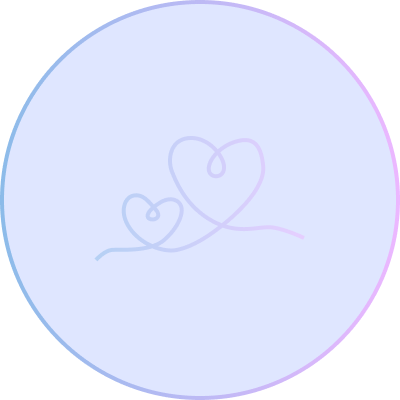
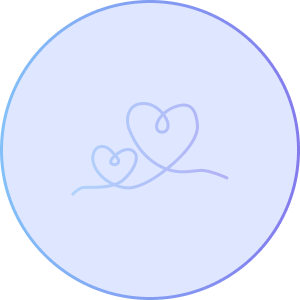
changing app colors

diff --git a/src/shared/assets/icons/Home.ts b/src/shared/assets/icons/Home.ts
@@ -1,25 +1,22 @@
 const HomeIcon = `
-<svg viewBox="0 0 24 24" fill="none" xmlns="http://www.w3.org/2000/svg">
-<path fill-rule="evenodd" clip-rule="evenodd" d="M5.00091 10.9673V15.6123C4.95843 17.4397 6.40451 18.9561 8.23191 19.0003H15.7699C17.5973 18.9561 19.0434 17.4397 19.0009 15.6123V10.9673C19.003 9.59674 18.3636 8.30422 17.2729 7.47427L14.2129 5.61927C12.8535 4.79358 11.1474 4.79358 9.78791 5.61927L6.72891 7.47427C5.63826 8.30422 4.99884 9.59674 5.00091 10.9673Z" fill="#DCDCDC" />
-<path d="M14.1547 15.1836C13.6498 15.8671 12.8504 16.2704 12.0007 16.2704C11.1509 16.2704 10.3516 15.8671 9.84668 15.1836" stroke="#F4F6FA" stroke-width="1.5" stroke-linecap="round"/>
+<svg width="14" height="14" viewBox="0 0 14 14" fill="none" xmlns="http://www.w3.org/2000/svg">
+<path fill-rule="evenodd" clip-rule="evenodd" d="M0.000912467 5.96727V10.6123C-0.0415678 12.4397 1.40451 13.9561 3.23191 14.0003H10.7699C12.5973 13.9561 14.0434 12.4397 14.0009 10.6123V5.96727C14.003 4.59674 13.3636 3.30422 12.2729 2.47427L9.21291 0.619269C7.85347 -0.206423 6.14736 -0.206423 4.78791 0.619269L1.72891 2.47427C0.638255 3.30422 -0.0011615 4.59674 0.000912467 5.96727ZM4.40104 9.58035C4.73421 9.33423 5.20381 9.40479 5.44993 9.73796C5.81343 10.23 6.3889 10.5204 7.00068 10.5204C7.61246 10.5204 8.18793 10.23 8.55143 9.73796C8.79755 9.40479 9.26715 9.33423 9.60032 9.58035C9.93348 9.82646 10.004 10.2961 9.75793 10.6292C9.11161 11.5041 8.08842 12.0204 7.00068 12.0204C5.91294 12.0204 4.88975 11.5041 4.24343 10.6292C3.99731 10.2961 4.06788 9.82646 4.40104 9.58035Z" fill="#DCDCDC"/>
 </svg>
 `;
 
 const HomeIconDark = `
-<svg viewBox="0 0 24 24" fill="none" xmlns="http://www.w3.org/2000/svg">
-<path fill-rule="evenodd" clip-rule="evenodd" d="M5.00091 10.9673V15.6123C4.95843 17.4397 6.40451 18.9561 8.23191 19.0003H15.7699C17.5973 18.9561 19.0434 17.4397 19.0009 15.6123V10.9673C19.003 9.59674 18.3636 8.30422 17.2729 7.47427L14.2129 5.61927C12.8535 4.79358 11.1474 4.79358 9.78791 5.61927L6.72891 7.47427C5.63826 8.30422 4.99884 9.59674 5.00091 10.9673Z" fill="#4E5462" />
-<path d="M14.1547 15.1836C13.6498 15.8671 12.8504 16.2704 12.0007 16.2704C11.1509 16.2704 10.3516 15.8671 9.84668 15.1836" stroke="#1F232C" stroke-width="1.5" stroke-linecap="round"/>
+<svg width="14" height="14" viewBox="0 0 14 14" fill="none" xmlns="http://www.w3.org/2000/svg">
+<path fill-rule="evenodd" clip-rule="evenodd" d="M0.000912467 5.96727V10.6123C-0.0415678 12.4397 1.40451 13.9561 3.23191 14.0003H10.7699C12.5973 13.9561 14.0434 12.4397 14.0009 10.6123V5.96727C14.003 4.59674 13.3636 3.30422 12.2729 2.47427L9.21291 0.619269C7.85347 -0.206423 6.14736 -0.206423 4.78791 0.619269L1.72891 2.47427C0.638255 3.30422 -0.0011615 4.59674 0.000912467 5.96727ZM4.40104 9.58035C4.73421 9.33423 5.20381 9.40479 5.44993 9.73796C5.81343 10.23 6.3889 10.5204 7.00068 10.5204C7.61246 10.5204 8.18793 10.23 8.55143 9.73796C8.79755 9.40479 9.26715 9.33423 9.60032 9.58035C9.93348 9.82646 10.004 10.2961 9.75793 10.6292C9.11161 11.5041 8.08842 12.0204 7.00068 12.0204C5.91294 12.0204 4.88975 11.5041 4.24343 10.6292C3.99731 10.2961 4.06788 9.82646 4.40104 9.58035Z" fill="#4E5462"/>
 </svg>
 `;
 
 const HomeIconWithGradient = `
-<svg viewBox="0 0 24 24" fill="none" xmlns="http://www.w3.org/2000/svg">
-<path fill-rule="evenodd" clip-rule="evenodd" d="M5.00091 10.9673V15.6123C4.95843 17.4397 6.40451 18.9561 8.23191 19.0003H15.7699C17.5973 18.9561 19.0434 17.4397 19.0009 15.6123V10.9673C19.003 9.59674 18.3636 8.30422 17.2729 7.47427L14.2129 5.61927C12.8535 4.79358 11.1474 4.79358 9.78791 5.61927L6.72891 7.47427C5.63826 8.30422 4.99884 9.59674 5.00091 10.9673Z" fill="url(#paint0_linear_2988_1275)"/>
-<path d="M14.1547 15.1836C13.6498 15.8671 12.8504 16.2704 12.0007 16.2704C11.1509 16.2704 10.3516 15.8671 9.84668 15.1836" stroke-width="1.5" stroke-linecap="round"/>
+<svg viewBox="0 0 14 14" fill="none" xmlns="http://www.w3.org/2000/svg">
+<path fill-rule="evenodd" clip-rule="evenodd" d="M0.000912467 5.96727V10.6123C-0.0415678 12.4397 1.40451 13.9561 3.23191 14.0003H10.7699C12.5973 13.9561 14.0434 12.4397 14.0009 10.6123V5.96727C14.003 4.59674 13.3636 3.30422 12.2729 2.47427L9.21291 0.619269C7.85347 -0.206423 6.14736 -0.206423 4.78791 0.619269L1.72891 2.47427C0.638255 3.30422 -0.0011615 4.59674 0.000912467 5.96727ZM4.40104 9.58035C4.73421 9.33423 5.20381 9.40479 5.44993 9.73796C5.81343 10.23 6.3889 10.5204 7.00068 10.5204C7.61246 10.5204 8.18793 10.23 8.55143 9.73796C8.79755 9.40479 9.26715 9.33423 9.60032 9.58035C9.93348 9.82646 10.004 10.2961 9.75793 10.6292C9.11161 11.5041 8.08842 12.0204 7.00068 12.0204C5.91294 12.0204 4.88975 11.5041 4.24343 10.6292C3.99731 10.2961 4.06788 9.82646 4.40104 9.58035Z" fill="url(#paint0_linear_5245_1646)"/>
 <defs>
-<linearGradient id="paint0_linear_2988_1275" x1="15" y1="6" x2="1" y2="6" gradientUnits="userSpaceOnUse">
-<stop stop-color="#8CBBE9"/>
-<stop offset="1" stop-color="#ECB7FF"/>
+<linearGradient id="paint0_linear_5245_1646" x1="0" y1="7.00014" x2="14.0018" y2="7.00014" gradientUnits="userSpaceOnUse">
+<stop stop-color="#83C0F8"/>
+<stop offset="1" stop-color="#847AED"/>
 </linearGradient>
 </defs>
 </svg>

diff --git a/src/shared/assets/icons/Categories.ts b/src/shared/assets/icons/Categories.ts
@@ -14,20 +14,20 @@ const CategoriesIconDark = `
 
 const CategoriesIconWithGradient = `
 <svg viewBox="0 0 16 16" fill="none" xmlns="http://www.w3.org/2000/svg">
-<path fill-rule="evenodd" clip-rule="evenodd" d="M8.07428 6.57029C8.0266 6.58936 7.9734 6.58936 7.92572 6.57029L1.46424 3.9857C1.29661 3.91864 1.29661 3.68136 1.46424 3.6143L7.92572 1.02971C7.9734 1.01064 8.0266 1.01064 8.07428 1.02971L14.5358 3.6143C14.7034 3.68136 14.7034 3.91864 14.5358 3.9857L8.07428 6.57029Z" fill="url(#paint0_linear_3816_1985)" stroke="url(#paint1_linear_3816_1985)" stroke-width="1.5" stroke-linecap="round"/>
-<path d="M1.27854 11.5036C0.893955 11.3498 0.457478 11.5369 0.303642 11.9215C0.149807 12.306 0.336869 12.7425 0.721457 12.8964L1.27854 11.5036ZM8 15L7.72146 15.6964L8 15.8078L8.27854 15.6964L8 15ZM15.2785 12.8964C15.6631 12.7425 15.8502 12.306 15.6964 11.9215C15.5425 11.5369 15.106 11.3498 14.7215 11.5036L15.2785 12.8964ZM1.27854 7.30364C0.893955 7.14981 0.457478 7.33687 0.303642 7.72146C0.149807 8.10604 0.336869 8.54252 0.721457 8.69636L1.27854 7.30364ZM8 10.8L7.72146 11.4964L8 11.6078L8.27854 11.4964L8 10.8ZM15.2785 8.69636C15.6631 8.54252 15.8502 8.10604 15.6964 7.72146C15.5425 7.33687 15.106 7.14981 14.7215 7.30364L15.2785 8.69636ZM0.721457 12.8964L7.72146 15.6964L8.27854 14.3036L1.27854 11.5036L0.721457 12.8964ZM8.27854 15.6964L15.2785 12.8964L14.7215 11.5036L7.72146 14.3036L8.27854 15.6964ZM0.721457 8.69636L7.72146 11.4964L8.27854 10.1036L1.27854 7.30364L0.721457 8.69636ZM8.27854 11.4964L15.2785 8.69636L14.7215 7.30364L7.72146 10.1036L8.27854 11.4964Z" fill="url(#paint2_linear_3816_1985)"/>
+<path fill-rule="evenodd" clip-rule="evenodd" d="M8.07428 6.57029C8.0266 6.58936 7.9734 6.58936 7.92572 6.57029L1.46424 3.9857C1.29661 3.91864 1.29661 3.68136 1.46424 3.6143L7.92572 1.02971C7.9734 1.01064 8.0266 1.01064 8.07428 1.02971L14.5358 3.6143C14.7034 3.68136 14.7034 3.91864 14.5358 3.9857L8.07428 6.57029Z" fill="url(#paint0_linear_5245_842)" stroke="url(#paint1_linear_5245_842)" stroke-width="1.5" stroke-linecap="round"/>
+<path d="M1.27854 11.5036C0.893955 11.3498 0.457478 11.5369 0.303642 11.9215C0.149807 12.306 0.336869 12.7425 0.721457 12.8964L1.27854 11.5036ZM8 15L7.72146 15.6964L8 15.8078L8.27854 15.6964L8 15ZM15.2785 12.8964C15.6631 12.7425 15.8502 12.306 15.6964 11.9215C15.5425 11.5369 15.106 11.3498 14.7215 11.5036L15.2785 12.8964ZM1.27854 7.30364C0.893955 7.14981 0.457478 7.33687 0.303642 7.72146C0.149807 8.10604 0.336869 8.54252 0.721457 8.69636L1.27854 7.30364ZM8 10.8L7.72146 11.4964L8 11.6078L8.27854 11.4964L8 10.8ZM15.2785 8.69636C15.6631 8.54252 15.8502 8.10604 15.6964 7.72146C15.5425 7.33687 15.106 7.14981 14.7215 7.30364L15.2785 8.69636ZM0.721457 12.8964L7.72146 15.6964L8.27854 14.3036L1.27854 11.5036L0.721457 12.8964ZM8.27854 15.6964L15.2785 12.8964L14.7215 11.5036L7.72146 14.3036L8.27854 15.6964ZM0.721457 8.69636L7.72146 11.4964L8.27854 10.1036L1.27854 7.30364L0.721457 8.69636ZM8.27854 11.4964L15.2785 8.69636L14.7215 7.30364L7.72146 10.1036L8.27854 11.4964Z" fill="url(#paint2_linear_5245_842)"/>
 <defs>
-<linearGradient id="paint0_linear_3816_1985" x1="1" y1="3.8" x2="15" y2="3.8" gradientUnits="userSpaceOnUse">
-<stop stop-color="#8CBBE9"/>
-<stop offset="1" stop-color="#ECB7FF"/>
+<linearGradient id="paint0_linear_5245_842" x1="1" y1="3.8" x2="15" y2="3.8" gradientUnits="userSpaceOnUse">
+<stop stop-color="#83C0F8"/>
+<stop offset="1" stop-color="#847AED"/>
 </linearGradient>
-<linearGradient id="paint1_linear_3816_1985" x1="1" y1="3.8" x2="15" y2="3.8" gradientUnits="userSpaceOnUse">
-<stop stop-color="#8CBBE9"/>
-<stop offset="1" stop-color="#ECB7FF"/>
+<linearGradient id="paint1_linear_5245_842" x1="1" y1="3.8" x2="15" y2="3.8" gradientUnits="userSpaceOnUse">
+<stop stop-color="#83C0F8"/>
+<stop offset="1" stop-color="#847AED"/>
 </linearGradient>
-<linearGradient id="paint2_linear_3816_1985" x1="1" y1="11.5" x2="15" y2="11.5" gradientUnits="userSpaceOnUse">
-<stop stop-color="#8CBBE9"/>
-<stop offset="1" stop-color="#ECB7FF"/>
+<linearGradient id="paint2_linear_5245_842" x1="1" y1="11.5" x2="15" y2="11.5" gradientUnits="userSpaceOnUse">
+<stop stop-color="#83C0F8"/>
+<stop offset="1" stop-color="#847AED"/>
 </linearGradient>
 </defs>
 </svg>

diff --git a/src/shared/assets/icons/ArrowRight.ts b/src/shared/assets/icons/ArrowRight.ts
@@ -1,12 +1,13 @@
 const ArrowIconWithGradient = `<svg viewBox="0 0 16 12" fill="none" xmlns="http://www.w3.org/2000/svg">
-<path d="M9.23276 10.4569C8.93281 10.7426 8.92123 11.2173 9.2069 11.5172C9.49256 11.8172 9.96729 11.8288 10.2672 11.5431L9.23276 10.4569ZM15.5172 6.5431C15.8172 6.25744 15.8288 5.78271 15.5431 5.48276C15.2574 5.18281 14.7827 5.17123 14.4828 5.4569L15.5172 6.5431ZM14.4828 6.5431C14.7827 6.82877 15.2574 6.81719 15.5431 6.51724C15.8288 6.21729 15.8172 5.74256 15.5172 5.4569L14.4828 6.5431ZM10.2672 0.456897C9.96729 0.171232 9.49256 0.182811 9.2069 0.482759C8.92123 0.782706 8.93281 1.25744 9.23276 1.5431L10.2672 0.456897ZM15 6.75C15.4142 6.75 15.75 6.41421 15.75 6C15.75 5.58579 15.4142 5.25 15 5.25V6.75ZM1 5.25C0.585787 5.25 0.25 5.58579 0.25 6C0.25 6.41421 0.585787 6.75 1 6.75V5.25ZM10.2672 11.5431L15.5172 6.5431L14.4828 5.4569L9.23276 10.4569L10.2672 11.5431ZM15.5172 5.4569L10.2672 0.456897L9.23276 1.5431L14.4828 6.5431L15.5172 5.4569ZM15 5.25L1 5.25V6.75L15 6.75V5.25Z" fill="url(#paint0_linear_2988_1275)"/>
+<path d="M9.23276 10.4569C8.93281 10.7426 8.92123 11.2173 9.2069 11.5172C9.49256 11.8172 9.96729 11.8288 10.2672 11.5431L9.23276 10.4569ZM15.5172 6.5431C15.8172 6.25744 15.8288 5.78271 15.5431 5.48276C15.2574 5.18281 14.7827 5.17123 14.4828 5.4569L15.5172 6.5431ZM14.4828 6.5431C14.7827 6.82877 15.2574 6.81719 15.5431 6.51724C15.8288 6.21729 15.8172 5.74256 15.5172 5.4569L14.4828 6.5431ZM10.2672 0.456897C9.96729 0.171232 9.49256 0.182811 9.2069 0.482759C8.92123 0.782706 8.93281 1.25744 9.23276 1.5431L10.2672 0.456897ZM15 6.75C15.4142 6.75 15.75 6.41421 15.75 6C15.75 5.58579 15.4142 5.25 15 5.25V6.75ZM1 5.25C0.585787 5.25 0.25 5.58579 0.25 6C0.25 6.41421 0.585787 6.75 1 6.75V5.25ZM10.2672 11.5431L15.5172 6.5431L14.4828 5.4569L9.23276 10.4569L10.2672 11.5431ZM15.5172 5.4569L10.2672 0.456897L9.23276 1.5431L14.4828 6.5431L15.5172 5.4569ZM15 5.25L1 5.25V6.75L15 6.75V5.25Z" fill="url(#paint0_linear_5245_1986)"/>
 <defs>
-<linearGradient id="paint0_linear_2988_1275" x1="15" y1="6" x2="1" y2="6" gradientUnits="userSpaceOnUse">
-<stop stop-color="#8CBBE9"/>
-<stop offset="1" stop-color="#ECB7FF"/>
+<linearGradient id="paint0_linear_5245_1986" x1="15" y1="6" x2="1" y2="6" gradientUnits="userSpaceOnUse">
+<stop stop-color="#83C0F8"/>
+<stop offset="1" stop-color="#847AED"/>
 </linearGradient>
 </defs>
-</svg>`;
+</svg>
+`;
 
 const ArrowIcon = `<svg viewBox="0 0 13 10" xmlns="http://www.w3.org/2000/svg">
 <path d="M7.42647 8.22057C7.12652 8.50623 7.11494 8.98097 7.40061 9.28091C7.68627 9.58086 8.16101 9.59244 8.46095 9.30678L7.42647 8.22057ZM12.6422 5.3246C12.9422 5.03893 12.9538 4.5642 12.6681 4.26425C12.3824 3.9643 11.9077 3.95273 11.6078 4.23839L12.6422 5.3246ZM11.6076 5.32435C11.9076 5.61002 12.3823 5.59844 12.668 5.29849C12.9536 4.99854 12.9421 4.52381 12.6421 4.23815L11.6076 5.32435ZM8.46083 0.255968C8.16088 -0.0296965 7.68615 -0.018117 7.40049 0.281831C7.11482 0.581779 7.1264 1.05651 7.42635 1.34218L8.46083 0.255968ZM12.1249 5.53149C12.5392 5.53149 12.8749 5.19571 12.8749 4.78149C12.8749 4.36728 12.5392 4.03149 12.1249 4.03149V5.53149ZM0.974841 4.03149C0.560627 4.03149 0.224841 4.36728 0.224841 4.78149C0.224841 5.19571 0.560627 5.53149 0.974841 5.53149V4.03149ZM8.46095 9.30678L12.6422 5.3246L11.6078 4.23839L7.42647 8.22057L8.46095 9.30678ZM12.6421 4.23815L8.46083 0.255968L7.42635 1.34218L11.6076 5.32435L12.6421 4.23815ZM12.1249 4.03149L0.974841 4.03149V5.53149L12.1249 5.53149V4.03149Z"/>

diff --git a/src/shared/assets/icons/Hearts.ts b/src/shared/assets/icons/Hearts.ts
@@ -1,10 +1,10 @@
 export const HeartsIcon = `
 <svg viewBox="0 0 57 25" fill="none" xmlns="http://www.w3.org/2000/svg">
-<path opacity="0.8" d="M1 24C1.72004 23.411 3.56999 22.2065 5.20947 22.1005C7.25881 21.968 15.29 22.5422 19.0564 20.2009C22.8228 17.8597 24.2628 15.0767 23.432 13.7514C22.6012 12.4262 20.3297 12.1962 18.1702 13.0888C14.75 14.5024 13.9053 15.916 15.29 16.2694C16.6747 16.6228 18.4471 15.8276 16.7855 14.5024C15.1239 13.1771 13.2554 11.1946 10.3605 11.9844C8.62496 12.4579 6.92649 15.0767 10.139 18.2131C13.3515 21.3495 19.2226 22.5864 22.3797 22.1005C25.5368 21.6146 29.0262 20.4218 33.6788 17.8597C38.3313 15.2975 45.7533 10.3941 45.1994 6.28583C44.6455 2.17756 42.5408 0.63143 37.7221 1.73581C32.9033 2.84018 29.9946 5.94524 31.0201 7.47855C31.8367 8.69931 35.1188 8.4504 34.8419 6.28583C34.565 4.12126 30.0942 0.280311 24.6506 1.11736C20.6286 1.73579 19.8318 5.13728 21.1611 7.47855C22.4904 9.81983 25.2598 14.1932 32.0725 16.7553C38.8852 19.3174 44.0916 17.5505 47.5811 17.8597C50.3726 18.1071 54.3568 19.288 56 19.8475" stroke="url(#paint0_linear_3433_16559)"/>
+<path opacity="0.8" d="M1 24C1.72004 23.411 3.56999 22.2065 5.20947 22.1005C7.25881 21.968 15.29 22.5422 19.0564 20.2009C22.8228 17.8597 24.2628 15.0767 23.432 13.7514C22.6012 12.4262 20.3297 12.1962 18.1702 13.0888C14.75 14.5024 13.9053 15.916 15.29 16.2694C16.6747 16.6228 18.4471 15.8276 16.7855 14.5024C15.1239 13.1771 13.2554 11.1946 10.3605 11.9844C8.62496 12.4579 6.92649 15.0767 10.139 18.2131C13.3515 21.3495 19.2226 22.5864 22.3797 22.1005C25.5368 21.6146 29.0262 20.4218 33.6788 17.8597C38.3313 15.2975 45.7533 10.3941 45.1994 6.28583C44.6455 2.17756 42.5408 0.63143 37.7221 1.73581C32.9033 2.84018 29.9946 5.94524 31.0201 7.47855C31.8367 8.69931 35.1188 8.4504 34.8419 6.28583C34.565 4.12126 30.0942 0.280311 24.6506 1.11736C20.6286 1.73579 19.8318 5.13728 21.1611 7.47855C22.4904 9.81983 25.2598 14.1932 32.0725 16.7553C38.8852 19.3174 44.0916 17.5505 47.5811 17.8597C50.3726 18.1071 54.3568 19.288 56 19.8475" stroke="url(#paint0_linear_4975_36795)"/>
 <defs>
-<linearGradient id="paint0_linear_3433_16559" x1="1" y1="12.5" x2="56" y2="12.5" gradientUnits="userSpaceOnUse">
-<stop stop-color="#8CBBE9"/>
-<stop offset="1" stop-color="#ECB7FF"/>
+<linearGradient id="paint0_linear_4975_36795" x1="1" y1="12.5" x2="56" y2="12.5" gradientUnits="userSpaceOnUse">
+<stop stop-color="#83C0F8"/>
+<stop offset="1" stop-color="#847AED"/>
 </linearGradient>
 </defs>
 </svg>

diff --git a/src/shared/assets/icons/Shop.ts b/src/shared/assets/icons/Shop.ts
@@ -13,13 +13,17 @@ const ShopIconDark = `
 `;
 
 const ShopIconWithGradient = `
-<svg  viewBox="0 0 15 17" fill="none" xmlns="http://www.w3.org/2000/svg">
-<path fill-rule="evenodd" clip-rule="evenodd" d="M0.000634614 13.1407C-0.0372727 15.2335 1.6278 16.9613 3.72063 17.0007H10.2806C12.3735 16.9613 14.0385 15.2335 14.0006 13.1407L13.5636 8.45265C13.4527 6.68529 12.216 5.19053 10.5006 4.75065C10.1432 4.64667 9.77289 4.59348 9.40063 4.59265H4.60063C4.22837 4.59348 3.85808 4.64667 3.50063 4.75065C1.78636 5.19067 0.550259 6.68433 0.438635 8.45065L0.000634614 13.1407Z" fill="url(#paint0_linear_2988_1275)"/>
-<path d="M10.5005 6.38862V4.36762C10.4627 2.4718 8.89635 0.964926 7.00049 1.00062C5.10462 0.964926 3.53823 2.4718 3.50049 4.36762V6.38762" stroke="#DCDCDC" stroke-width="1.5" stroke-linecap="round" stroke-linejoin="round" stroke="url(#paint0_linear_2988_1275)"/>
+<svg viewBox="0 0 14 17" fill="none" xmlns="http://www.w3.org/2000/svg">
+<path fill-rule="evenodd" clip-rule="evenodd" d="M0.000634614 13.1408C-0.0372727 15.2336 1.6278 16.9614 3.72063 17.0008H10.2806C12.3735 16.9614 14.0385 15.2336 14.0006 13.1408L13.5636 8.45277C13.4527 6.68541 12.216 5.19066 10.5006 4.75077C10.1432 4.64679 9.77289 4.59361 9.40063 4.59277H4.60063C4.22837 4.59361 3.85808 4.64679 3.50063 4.75077C1.78636 5.19079 0.550259 6.68445 0.438635 8.45077L0.000634614 13.1408Z" fill="url(#paint0_linear_5245_1157)"/>
+<path d="M10.5 6.38862V4.36762C10.4623 2.4718 8.89587 0.964926 7 1.00062C5.10413 0.964926 3.53774 2.4718 3.5 4.36762V6.38762" stroke="url(#paint1_linear_5245_1157)" stroke-width="1.5" stroke-linecap="round" stroke-linejoin="round"/>
 <defs>
-<linearGradient id="paint0_linear_2988_1275" x1="15" y1="6" x2="1" y2="6" gradientUnits="userSpaceOnUse">
-<stop stop-color="#8CBBE9"/>
-<stop offset="1" stop-color="#ECB7FF"/>
+<linearGradient id="paint0_linear_5245_1157" x1="0" y1="10.7968" x2="14.0013" y2="10.7968" gradientUnits="userSpaceOnUse">
+<stop stop-color="#83C0F8"/>
+<stop offset="1" stop-color="#847AED"/>
+</linearGradient>
+<linearGradient id="paint1_linear_5245_1157" x1="3.5" y1="3.69431" x2="10.5" y2="3.69431" gradientUnits="userSpaceOnUse">
+<stop stop-color="#83C0F8"/>
+<stop offset="1" stop-color="#847AED"/>
 </linearGradient>
 </defs>
 </svg>

diff --git a/src/shared/assets/icons/Books.ts b/src/shared/assets/icons/Books.ts
@@ -11,12 +11,12 @@ export const BooksIconDark = `
 `;
 
 export const BooksIconWithGradient = `
-<svg  viewBox="0 0 13 15" fill="none" xmlns="http://www.w3.org/2000/svg">
-<path d="M1.625 0C0.728 0 0 0.72 0 1.60714V13.3929C0 14.28 0.728 15 1.625 15H10.8333V2.14286H8.66667V6.42857L7.04167 5.35714L5.41667 6.42857V2.14286H1.625C1.32599 2.14286 1.08333 1.90286 1.08333 1.60714C1.08333 1.31142 1.32599 1.07143 1.625 1.07143H11.9167V12.8571H13V0H1.625Z" fill="url(#paint0_linear_2988_1275)" />
+<svg viewBox="0 0 13 15" fill="none" xmlns="http://www.w3.org/2000/svg">
+<path d="M1.625 0C0.728 0 0 0.72 0 1.60714V13.3929C0 14.28 0.728 15 1.625 15H10.8333V2.14286H8.66667V6.42857L7.04167 5.35714L5.41667 6.42857V2.14286H1.625C1.32599 2.14286 1.08333 1.90286 1.08333 1.60714C1.08333 1.31142 1.32599 1.07143 1.625 1.07143H11.9167V12.8571H13V0H1.625Z" fill="url(#paint0_linear_5245_2296)"/>
 <defs>
-<linearGradient id="paint0_linear_2988_1275" x1="15" y1="6" x2="1" y2="6" gradientUnits="userSpaceOnUse">
-<stop stop-color="#8CBBE9"/>
-<stop offset="1" stop-color="#ECB7FF"/>
+<linearGradient id="paint0_linear_5245_2296" x1="0" y1="7.5" x2="13" y2="7.5" gradientUnits="userSpaceOnUse">
+<stop stop-color="#83C0F8"/>
+<stop offset="1" stop-color="#847AED"/>
 </linearGradient>
 </defs>
 </svg>

diff --git a/src/app/styles/themeStyle.ts b/src/app/styles/themeStyle.ts
@@ -22,7 +22,10 @@ export type Colors =
   | 'purchaseButtonColor'
   | 'secondaryError'
   | 'skeletonColor'
-  | 'skeletonHighlightColor';
+  | 'skeletonHighlightColor'
+  | 'bgForgotPasswordPopupColor'
+  | 'bgPopup'
+  | 'bgLayout';
 
 export type ColorType = Record<Colors, string>;
 
@@ -47,6 +50,8 @@ const light: ColorType = {
   purchaseButtonColor: '#B9C3FD',
   skeletonColor: '#E1E9EE',
   skeletonHighlightColor: '#F2F8FC',
+  bgPopup: '#3951804D',
+  bgLayout: 'rgba(57, 81, 128, 0.5)',
 
   // text colors
   primaryTextColor: '#395180',
@@ -56,6 +61,7 @@ const light: ColorType = {
   challengeCategoryNameColor: '#B6B6BD',
   categoryAndFavoritesTextColor: '#395180',
   purchaseDescriptionColor: '#8698BB',
+  bgForgotPasswordPopupColor: '#F4F6FA',
 
   // icons colors
   appleIconColor: '#1B1B1B',
@@ -76,6 +82,9 @@ const dark: ColorType = {
   purchaseButtonColor: '#242832',
   skeletonColor: '#2E3440',
   skeletonHighlightColor: '#242832',
+  bgForgotPasswordPopupColor: '#242832',
+  bgPopup: '#000000',
+  bgLayout: 'rgba(0, 0, 0, 0.5)',
 
   // text colors
   primaryTextColor: '#C0C3CF',

diff --git a/src/app/providers/route/TabRoute/ui/IconItem/IconItem.tsx b/src/app/providers/route/TabRoute/ui/IconItem/IconItem.tsx
@@ -10,11 +10,10 @@ interface IconItemProps {
   name: string;
   focused: boolean;
   icon: (param: {isGradient: boolean; isDarkMode: boolean}) => any;
-  size: number;
 }
 
 const IconItem = (props: IconItemProps) => {
-  const {name, focused, icon, size} = props;
+  const {name, focused, icon} = props;
 
   const {theme} = useTheme();
   const isDarkMode = theme === Theme.Dark;
@@ -27,10 +26,10 @@ const IconItem = (props: IconItemProps) => {
     return [
       styles.round,
       {
-        marginBottom: size ? 0 : 5,
+        marginBottom: 5,
       },
     ];
-  }, [size]);
+  }, []);
 
   return (
     <Pressable style={styles.iconWrapper} onPress={onPressHandler}>
@@ -38,8 +37,8 @@ const IconItem = (props: IconItemProps) => {
       {!focused && <View style={roundStyle} />}
       <SvgXml
         xml={icon({isGradient: focused, isDarkMode})}
-        height={size || 16}
-        width={size || 16}
+        height={16}
+        width={16}
       />
     </Pressable>
   );

diff --git a/src/pages/CategoryDetailsPage/ui/CategoryDetailsPage.tsx b/src/pages/CategoryDetailsPage/ui/CategoryDetailsPage.tsx
@@ -100,7 +100,9 @@ export const CategoryDetailsPage = (props: CategoryDetailsPageProps) => {
         <View>
           {category.isBlocked && (
             <>
-              <View style={[styles.layout]} />
+              <View
+                style={[styles.layout, {backgroundColor: colors.bgLayout}]}
+              />
               <View style={[styles.lockIconWrapper]}>
                 <SvgXml xml={LockIcon} fill={'white'} style={styles.lockIcon} />
               </View>
@@ -181,9 +183,7 @@ const styles = StyleSheet.create({
   },
 
   layout: {
-    backgroundColor: 'black',
     position: 'absolute',
-    opacity: 0.4,
     width: '100%',
     borderRadius: moderateScale(20),
     height: '100%',

diff --git a/src/entities/Category/ui/Category.tsx b/src/entities/Category/ui/Category.tsx
@@ -102,7 +102,7 @@ const Category = (props: CategoryProps) => {
               styles.layout,
               styles[size],
               {
-                backgroundColor: colors.black,
+                backgroundColor: colors.bgLayout,
               },
             ]}
           />
@@ -173,7 +173,6 @@ const styles = StyleSheet.create<Record<string, any>>({
   },
   layout: {
     position: 'absolute',
-    opacity: 0.4,
     width: '100%',
     borderRadius: borderRadius,
     ...globalStyles.categoryLayoutZIndex,

diff --git a/src/app/providers/route/TabRoute/ui/TabRoute.tsx b/src/app/providers/route/TabRoute/ui/TabRoute.tsx
@@ -42,14 +42,7 @@ const TabRoute = () => {
 
           const getIcon = getTabIcon(routeName);
 
-          return (
-            <IconItem
-              icon={getIcon}
-              focused={focused}
-              size={routeName === TabRoutesNames.HOME ? 25 : 0}
-              name={routeName}
-            />
-          );
+          return <IconItem icon={getIcon} focused={focused} name={routeName} />;
         },
       })}>
       <Tab.Group>

diff --git a/src/shared/ui/GradientText/GradientText.tsx b/src/shared/ui/GradientText/GradientText.tsx
@@ -21,7 +21,7 @@ export const GradientText = memo((props: GradientTextProps) => {
   return (
     <MaskedView maskElement={<AppText {...props} />}>
       <LinearGradient
-        colors={['#8CBBE9', '#ECB7FF']}
+        colors={['#83C0F8', '#847AED']}
         start={{x: 0, y: 0}}
         end={{x: 1, y: 0}}>
         <AppText {...props} style={{opacity: 0}} />
